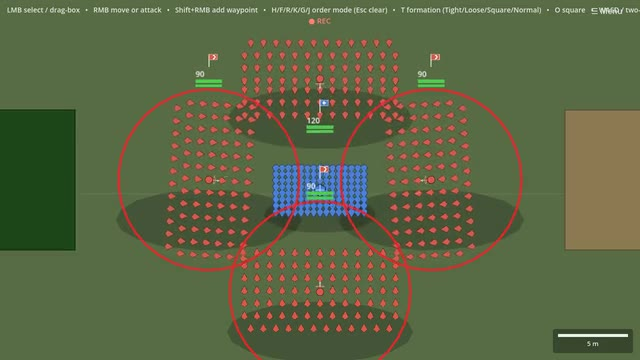
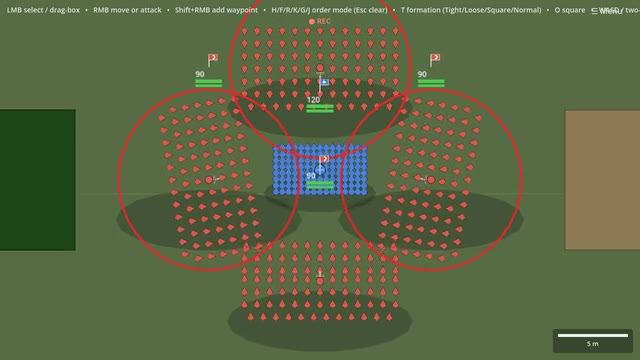
Deploying to gh-pages from @ Lacaedemon/sparta@70276b1ee4024939312a374055f5843ba6576c85 🚀

Changed region(s): [[0.25, 0.0, 0.75, 1.0]]

diff --git a/tactics.html b/tactics.html
@@ -700,7 +700,8 @@ ul.task-list li input[type="checkbox"] {
 <section id="the-centre-pivot" class="level2">
 <h2 class="anchored" data-anchor-id="the-centre-pivot">The centre pivot</h2>
 <p>A larger turn is a <strong>centre pivot</strong>: the unit rotates about its own centre onto its new heading in good order rather than snapping round. When the turn is sharp the unit pivots before it advances — it nearly halts, faces its destination, then marches — so it never slides sideways or backwards at speed. A destination to the <strong>rear</strong> therefore triggers a full 180° pivot: the whole regiment turns around to face where it is going before it steps off. (Don’t confuse that with the <strong>conversio</strong> about-face on <kbd>V</kbd>, where each soldier turns in place and the block does not rotate.)</p>
-<p>The cost is time: a sharp reorientation spends a beat pivoting before the unit makes ground, and a 180° pivot spends the most. Plan turns ahead of contact — a unit told to reverse at the moment of impact will spend its pivot facing the wrong way. Note that a <strong>chasing or charging</strong> unit turns instantly instead, so an attack order never pays the pivot tax; the orderly centre pivot is reserved for your own move orders, where keeping the ranks dressed is worth the beat.</p>
+<p>The cost is time: a sharp reorientation spends a beat pivoting before the unit makes ground, and a 180° pivot spends the most. Plan turns ahead of contact — a unit told to reverse at the moment of impact will spend its pivot facing the wrong way. Note that a <strong>chasing or charging</strong> unit turns instantly instead, so an attack order never pays the pivot tax on the <em>approach</em>; the orderly centre pivot is reserved for your own move orders, where keeping the ranks dressed is worth the beat.</p>
+<p><strong>Re-facing to fight</strong> has a cost of its own. When a unit engages an enemy that is roughly a quarter-turn or more off its current front — attacked in the flank, or sent to hit a foe off to one side — it does <strong>not</strong> snap its facing round. Instead the whole line <strong>turns in place</strong> to bring its front to bear, the men holding their ground as the block pivots, and it withholds its blows until it has come about. A small correction still snaps and fights at once, so a unit already roughly fronting its target loses no time. The upshot: catching a unit on the flank buys you a genuine window — it must turn to answer you before it can strike back — so a flank attack rewards you both with the flank casualty bonus <em>and</em> the beat the enemy spends coming about.</p>
 <p>The pivot itself also <strong>slows as the unit picks up speed</strong> — a unit turns fastest from a stand and tightens its turn rate the faster it’s already moving (down to 40% of the stationary rate at a full sprint), reflecting the real lateral force a moving body or formation can exert without losing footing or cohesion. So a turn ordered from a standstill snaps around quickest; one ordered mid-charge takes noticeably longer to come about.</p>
 <p>Speed itself isn’t instant either: a unit <strong>ramps up</strong> to its target pace (walk, jog, or sprint) and <strong>ramps down</strong> when slowing or stopping, rather than snapping to a new speed. Heavier-kitted troops (spearmen) build up speed slower than lighter ones (archers), and every foot type slows down faster than it speeds up — stopping takes no effort, building momentum does. Cavalry is symmetric: a galloping horse can’t be reined in any faster than it can build up speed in the first place.</p>
 </section>